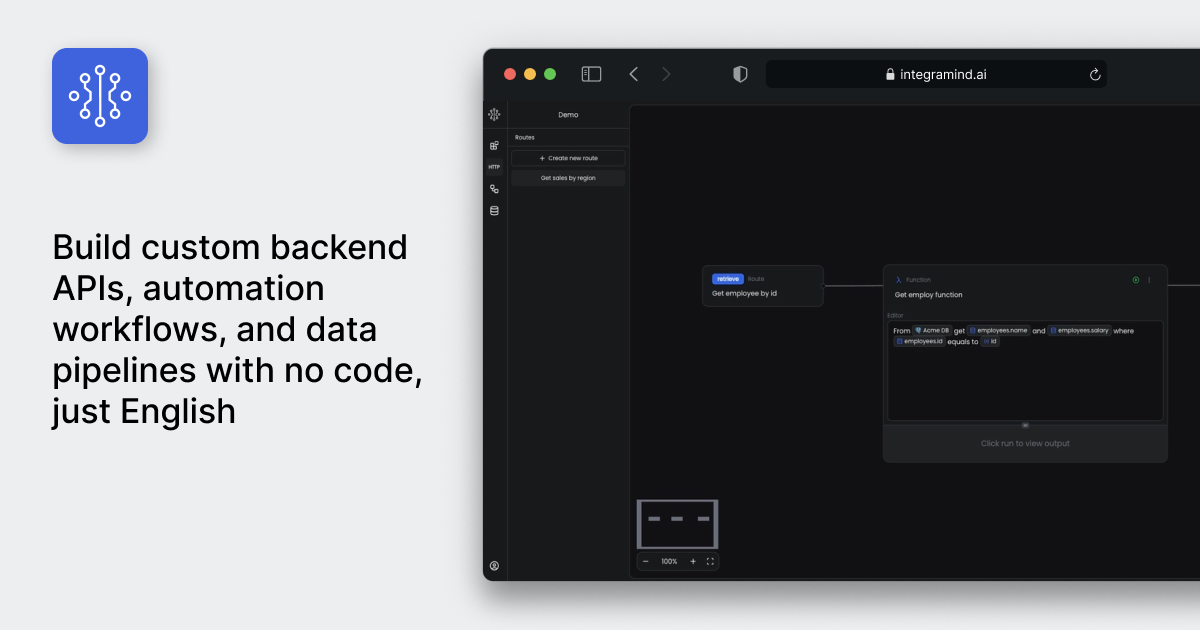
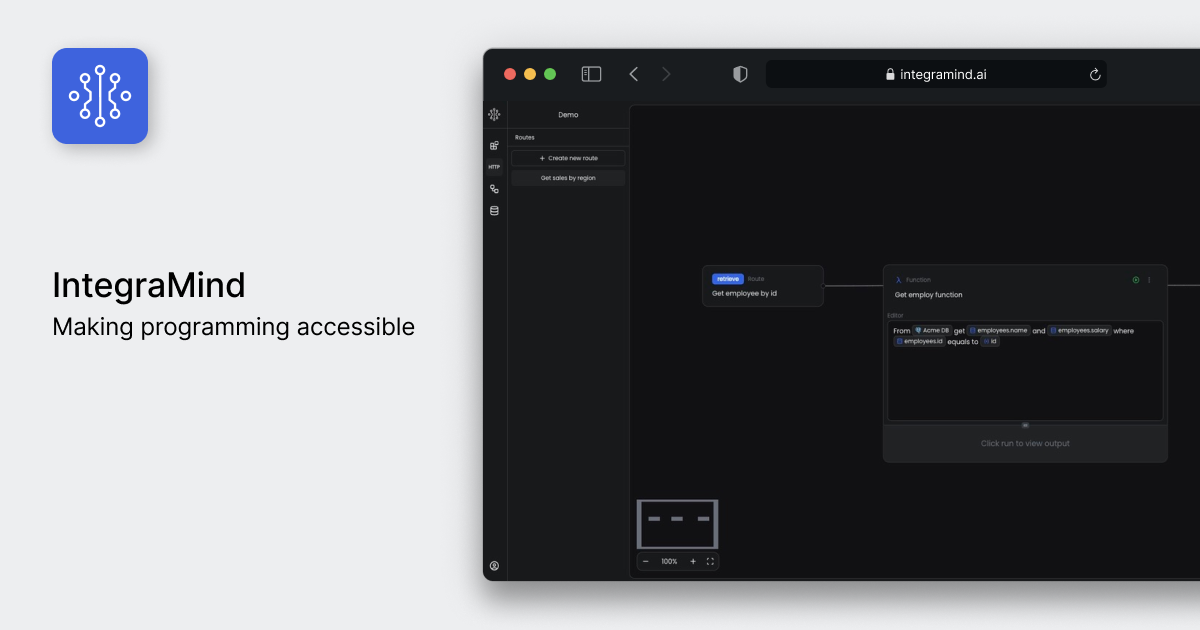
style(marketing): update content

Changed region(s): [[0.0308, 0.3619, 0.3392, 0.5429], [0.0308, 0.573, 0.3392, 0.6937]]

diff --git a/apps/marketing/src/components/hero.tsx b/apps/marketing/src/components/hero.tsx
@@ -20,9 +20,9 @@ export function Hero() {
         />
       </div>
       <p className="z-10 max-w-2xl text-center text-base lg:text-xl">
-        Our state-of-the-art platform allows you to build your own custom
-        backend APIs, automate workflows, and data pipelines with no code, just
-        English.
+        Our platform enables you to create custom backend APIs, automate
+        workflows, and build data pipelines using only plain English, without
+        any coding.
       </p>
       <div className="hidden md:block">
         <JoinWaitlistForm />

diff --git a/apps/marketing/src/components/faqs.tsx b/apps/marketing/src/components/faqs.tsx
@@ -26,8 +26,7 @@ export function FAQs() {
             When will you launch the product?
           </AccordionTrigger>
           <AccordionContent>
-            We aim to launch a beta version for early adopters by the first
-            quarter of 2025.
+            We aim to launch the product for early adopters by October 2024.
           </AccordionContent>
         </AccordionItem>
         <AccordionItem value="faq-3" className="rounded-xl border px-4">

diff --git a/apps/marketing/src/app/manifest.ts b/apps/marketing/src/app/manifest.ts
@@ -5,7 +5,7 @@ export default function manifest(): MetadataRoute.Manifest {
     name: "IntegraMind",
     short_name: "IntegraMind",
     description:
-      "Build backend APIs, workflows, and data pipelines with no coding, just English!",
+      "Create backend APIs, automation workflows, and data pipelines using only plain English, no coding required!",
     start_url: "/",
     display: "standalone",
     background_color: "#3E63DD",

diff --git a/apps/marketing/src/app/layout.tsx b/apps/marketing/src/app/layout.tsx
@@ -16,7 +16,7 @@ const fontSans = FontSans({
 export const metadata: Metadata = {
   title: "IntegraMind",
   description:
-    "Build backend APIs, workflows, and data pipelines with no coding, just English!",
+    "Create backend APIs, automation workflows, and data pipelines using only plain English, no coding required!",
   metadataBase: new URL(process.env.NEXT_PUBLIC_BASE_URL ?? ""),
 };
 
